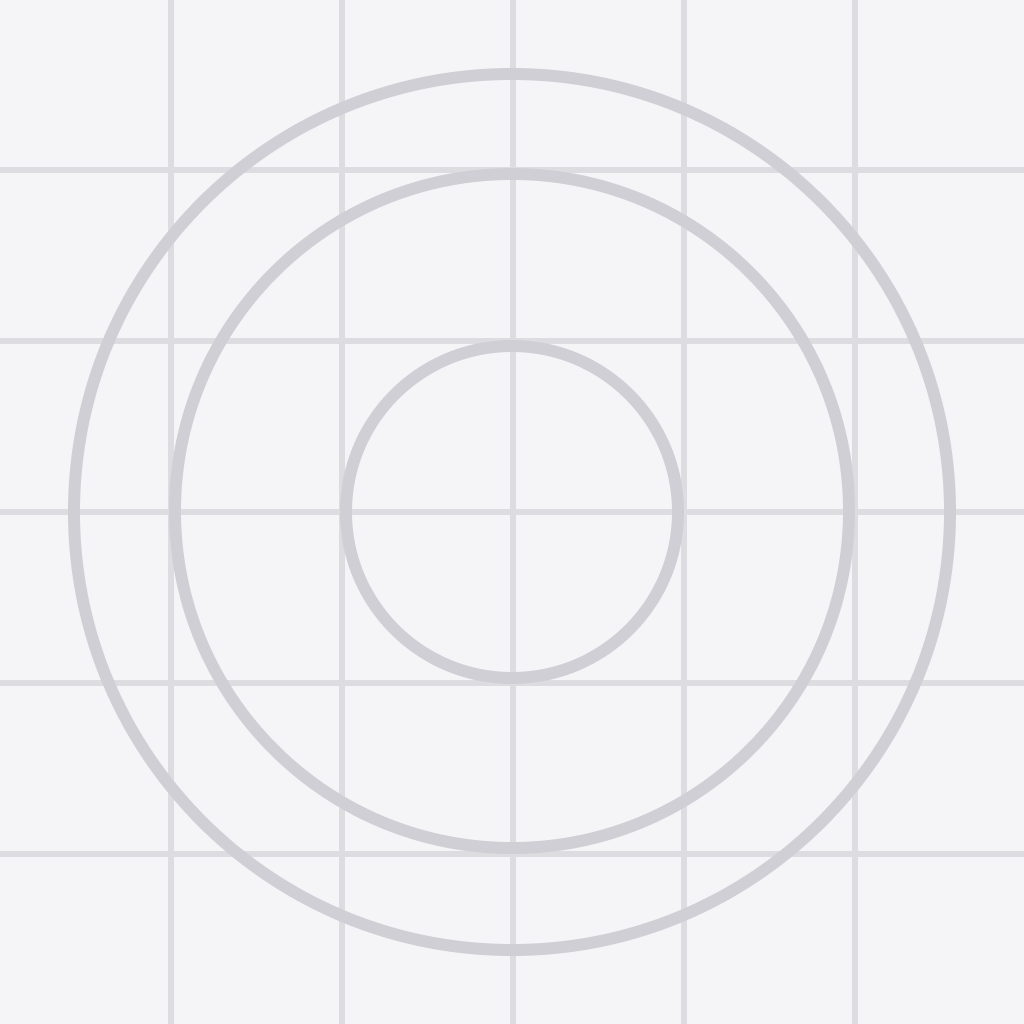
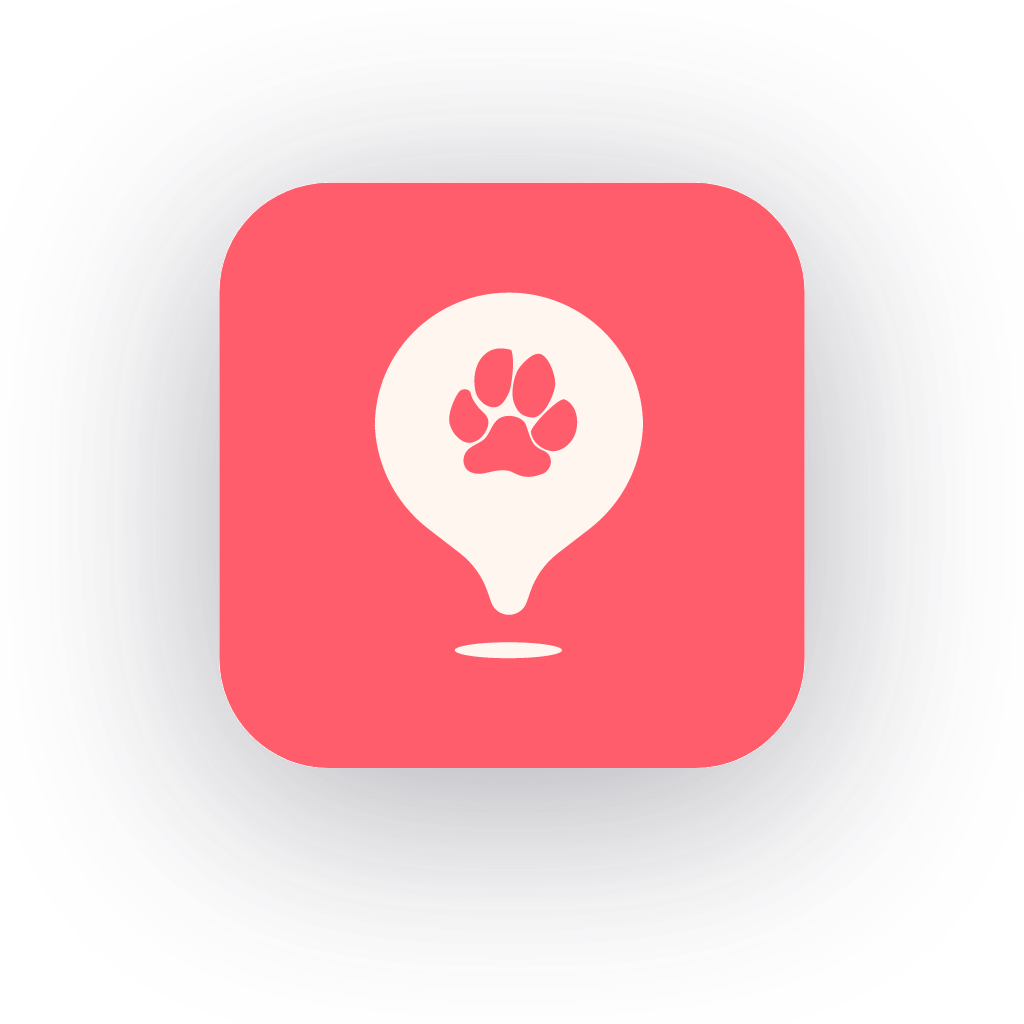
feat: nuevo icono de pata + wordmark "mimo" + paleta Mimo
Mobile
- assets/Mimo-icon-paw.svg (nuevo): icono coral + pin+paw crema con sombra
- icon.png / adaptive-icon.png / splash-icon.png regenerados desde SVG
  (svgexport, 1024x1024)
- app.json: adaptiveIcon.backgroundColor #FF5C6C, splash bg #FFF6F0
- Mimo-logo-paw.svg: fill coral (era #FFF6F0), quitado shadow blob
- MenuButton: usa Mimo-logo-paw en lugar de menu-icon-*.svg (borradas)
- Home hero: "Mimo." -> "mimo" (lowercase, sin punto)
- kicker "RED DE VIGILANCIA ANIMAL" -> "COMUNIDAD ..." con color coral
- Borradas assets/nigra*.svg (sin refs)

Web
- MimoLogo.jsx: componente inline SVG con prop color
- Navbar: MimoLogo coral + wordmark "mimo" en Nunito 900 noche
- Home hero: h1 "Mimo." -> "mimo" en Nunito 900 noche + kicker coral
- index.html: Google Fonts Nunito 700/800/900 con preconnect
- public/Mimo-logo-paw.svg: mismo cleanup (favicon)

Paleta Mimo aplicada:
- #FF5C6C coral (icono + kicker + adaptiveIcon bg)
- #FFF6F0 crema (paw fill + splash bg)
- #1A1A2E noche (wordmark)

diff --git a/client/src/components/MimoLogo.jsx b/client/src/components/MimoLogo.jsx
@@ -1,0 +1,18 @@
+export default function MimoLogo({ size = 32, color = '#FF5C6C', className = '', style }) {
+    return (
+        <svg
+            width={size}
+            height={size}
+            viewBox="0 0 453 528"
+            xmlns="http://www.w3.org/2000/svg"
+            className={className}
+            style={{ display: 'block', ...style }}
+            aria-hidden="true"
+        >
+            <path
+                fill={color}
+                d="M226.5 0C351.589 0 453 96.6851 453 215.944C450.125 281.685 417.027 342.871 362.505 383.204L309.42 422.5C287.84 438.481 271.602 460.129 262.745 484.796L256.49 502.148C252.1 514.371 240.038 522.574 226.5 522.574C212.942 522.574 200.9 514.371 196.51 502.148L190.255 484.796C181.398 460.129 165.16 438.481 143.561 422.5L90.4756 383.204C35.9726 342.871 2.87471 281.685 0 215.944C6.0553e-05 96.6851 101.411 0 226.5 0ZM227.923 199.931C219.419 199.704 211.182 202.069 206.338 206.795C201.575 211.442 199.024 215.608 196.68 219.914C194.337 224.218 192.215 228.626 188.287 233.853C184.412 239.009 178.522 242.087 172.368 245.218C166.253 248.329 159.883 251.488 155.307 256.827C150.705 262.196 149.027 269.265 149.974 275.668C150.92 282.071 154.502 287.862 160.478 290.607C169.868 294.922 178.491 294.276 187.155 292.581C195.849 290.88 204.498 288.153 214.187 288.153C222.892 288.153 227.2 289.146 231 290.679C232.922 291.454 234.705 292.362 236.898 293.38C239.082 294.393 241.631 295.494 245.028 296.627C261.57 302.141 276.874 296.117 283.854 293.624C287.477 292.33 291.728 288.915 294.486 284.288C297.254 279.645 298.546 273.735 296.153 267.475C294.965 264.365 293.436 262.182 291.633 260.516C289.835 258.854 287.785 257.724 285.591 256.696C281.188 254.634 276.201 252.967 271.022 248.282C268.463 245.967 266.339 242.723 264.501 239.04C262.664 235.36 261.126 231.271 259.721 227.282C258.32 223.306 257.047 219.411 255.753 216.174C254.465 212.953 253.119 210.278 251.528 208.788C245.334 202.986 236.437 200.158 227.923 199.931ZM320.363 173.186C319.681 172.927 318.863 172.923 317.968 173.091C317.068 173.259 316.048 173.609 314.937 174.105C312.714 175.099 310.062 176.71 307.161 178.752C301.356 182.838 294.49 188.697 287.957 194.951C281.423 201.206 275.208 207.872 270.706 213.575C268.456 216.426 266.625 219.047 265.396 221.266C264.782 222.375 264.313 223.395 264.018 224.3C263.725 225.198 263.591 226.022 263.691 226.724C265.728 240.983 278.541 252.941 295.58 256.642C304.197 258.513 313.965 255.836 322.25 249.883C330.542 243.925 337.393 234.658 340.173 223.271C345.71 200.59 336.678 179.363 320.363 173.186ZM158.46 158.487C153.544 155.276 147.992 157.192 144.994 158.444C144.244 158.758 143.347 159.583 142.383 160.714C141.401 161.867 140.293 163.406 139.129 165.239C136.799 168.907 134.221 173.783 131.94 179.171C129.66 184.559 127.671 190.471 126.528 196.209C125.386 201.941 125.081 207.534 126.2 212.268C128.419 221.655 133.858 229.5 140.062 234.993C146.251 240.473 153.269 243.671 158.688 243.653C167.713 243.625 175.585 239.166 181.376 233.103C187.162 227.044 190.919 219.335 191.684 212.71C192.456 206.018 189.783 201.234 186.187 197.223C184.395 195.225 182.364 193.407 180.416 191.643C178.459 189.87 176.588 188.154 175.07 186.333C166.351 175.87 163.892 170.054 162.791 166.354C162.513 165.421 162.321 164.622 162.134 163.891C161.948 163.167 161.765 162.504 161.508 161.888C160.978 160.62 160.154 159.594 158.46 158.487ZM277.214 99.1533C271.53 98.8451 265.533 101.874 259.946 106.123C254.343 110.384 249.067 115.938 244.81 120.824C240.476 125.797 236.178 136.045 233.97 147.374C231.761 158.71 231.618 171.262 235.727 180.85C238.745 187.893 242.127 192.869 246.703 196.323C251.279 199.777 256.999 201.671 264.623 202.648C269.938 203.33 275.105 201.071 279.825 197.179C284.548 193.285 288.879 187.714 292.552 181.647C296.227 175.577 299.257 168.987 301.369 163.033C303.477 157.092 304.686 151.739 304.687 148.153C304.687 138.3 301.157 126.27 296.003 116.617C293.424 111.788 290.427 107.529 287.238 104.427C284.058 101.332 280.637 99.339 277.214 99.1533ZM230.327 93.1729C207.149 86.3707 189.887 93.169 179.479 106.597C169.099 119.987 165.59 139.896 169.697 159.257C171.262 166.631 175.761 173.483 181.602 178.424C187.44 183.363 194.663 186.428 201.706 186.152C208.782 185.876 214.361 181.201 218.527 175.848C222.701 170.485 225.533 164.344 227.096 160.959L227.141 160.862L227.289 160.521C228.046 158.685 228.99 154.985 229.904 150.208C230.884 145.091 231.839 138.685 232.497 131.889C233.81 118.324 233.948 103.103 230.66 93.4912L230.576 93.2461L230.327 93.1729Z"
+            />
+        </svg>
+    );
+}

diff --git a/client/src/components/Navbar.jsx b/client/src/components/Navbar.jsx
@@ -1,5 +1,6 @@
 import { useSelector } from 'react-redux';
 import { Link } from 'react-router-dom';
+import MimoLogo from './MimoLogo';
 
 function Navbar() {
     const token = useSelector(state => state.user?.token);
@@ -13,8 +14,14 @@ function Navbar() {
 
     return (
         <nav className="sticky top-0 z-50 bg-white/80 backdrop-blur-md border-b border-gray-100 p-4 md:px-8 flex justify-between items-center transition-all">
-            <Link to="/" className="text-xl font-semibold tracking-tight text-gray-900 hover:opacity-70 transition-opacity">
-                Mimo.
+            <Link to="/" className="flex items-center gap-2 hover:opacity-70 transition-opacity">
+                <MimoLogo size={30} color="#FF5C6C" />
+                <span
+                    className="text-2xl leading-none"
+                    style={{ fontFamily: "'Nunito', system-ui, sans-serif", fontWeight: 900, color: '#1A1A2E', letterSpacing: '-0.03em' }}
+                >
+                    mimo
+                </span>
             </Link>
 
             <div className="flex gap-4 items-center">

diff --git a/client/src/pages/Home.jsx b/client/src/pages/Home.jsx
@@ -22,9 +22,12 @@ function Home() {
             {/* --- HERO SECTION --- */}
             <div className="flex flex-col items-center justify-center pt-32 pb-20 px-6 text-center">
                 <div className="animate-fade-in">
-                    <span className="text-[10px] font-bold text-pet-primary uppercase tracking-[0.3em] mb-4 block">Comunidad de Vigilancia Animal</span>
-                    <h1 className="text-7xl md:text-9xl font-semibold tracking-tighter text-black mb-8">
-                        Mimo.
+                    <span className="text-[10px] font-bold uppercase tracking-[0.3em] mb-4 block" style={{ color: '#FF5C6C' }}>Comunidad de Vigilancia Animal</span>
+                    <h1
+                        className="text-7xl md:text-9xl mb-8 leading-none"
+                        style={{ fontFamily: "'Nunito', system-ui, sans-serif", fontWeight: 900, color: '#1A1A2E', letterSpacing: '-0.03em' }}
+                    >
+                        mimo
                     </h1>
                     <p className="text-xl md:text-2xl font-medium text-gray-400 max-w-2xl mx-auto leading-tight mb-12">
                         La primera comunidad civil que utiliza visión computacional para conectar mascotas perdidas con sus familias.

diff --git a/mobile/src/components/MenuButton.js b/mobile/src/components/MenuButton.js
@@ -2,17 +2,15 @@ import { Pressable, View, StyleSheet } from 'react-native';
 import { useTheme } from '../lib/theme';
 import { useSocket } from '../lib/socket';
 import { useSidebar } from '../lib/sidebar';
-import MenuIconBlack from '../../assets/menu-icon-black.svg';
-import MenuIconWhite from '../../assets/menu-icon-white.svg';
+import MimoPaw from '../../assets/Mimo-logo-paw.svg';
 
 export default function MenuButton() {
   const c = useTheme();
   const { unreadCount } = useSocket();
   const { open } = useSidebar();
-  const Icon = c.isDark ? MenuIconWhite : MenuIconBlack;
   return (
     <Pressable onPress={open} hitSlop={12} style={styles.btn}>
-      <Icon width={28} height={28} />
+      <MimoPaw width={28} height={28} />
       {unreadCount > 0 ? <View style={[styles.dot, { borderColor: c.bg }]} /> : null}
     </Pressable>
   );

diff --git a/client/index.html b/client/index.html
@@ -4,6 +4,11 @@
     <meta charset="UTF-8" />
     <link rel="icon" type="image/svg+xml" href="/Mimo-logo-paw.svg" />
     <meta name="viewport" content="width=device-width, initial-scale=1.0" />
+
+    <link rel="preconnect" href="https://fonts.googleapis.com" />
+    <link rel="preconnect" href="https://fonts.gstatic.com" crossorigin />
+    <link href="https://fonts.googleapis.com/css2?family=Nunito:wght@700;800;900&display=swap" rel="stylesheet" />
+
     <title>Mimo - Comunidad de Reencuentro Animal</title>
     <meta name="description" content="Encontrá o reportá mascotas perdidas en tu zona. Mimo conecta personas para ayudar a que las mascotas vuelvan a casa." />
     <link rel="canonical" href="https://nigra-server.onrender.com" />

diff --git a/mobile/app/home.js b/mobile/app/home.js
@@ -39,8 +39,8 @@ export default function Home() {
 
         {/* Hero */}
         <View style={styles.hero}>
-          <Text style={[styles.kicker, { color: c.subtitle }]}>RED DE VIGILANCIA ANIMAL</Text>
-          <Text style={[styles.heroTitle, { color: c.title }]}>Mimo.</Text>
+          <Text style={[styles.kicker, { color: '#FF5C6C' }]}>COMUNIDAD DE VIGILANCIA ANIMAL</Text>
+          <Text style={[styles.heroTitle, { color: c.title }]}>mimo</Text>
           <Text style={[styles.heroSub, { color: c.subtitle }]}>
             La comunidad civil que usa visión computacional para conectar mascotas perdidas con sus familias.
           </Text>